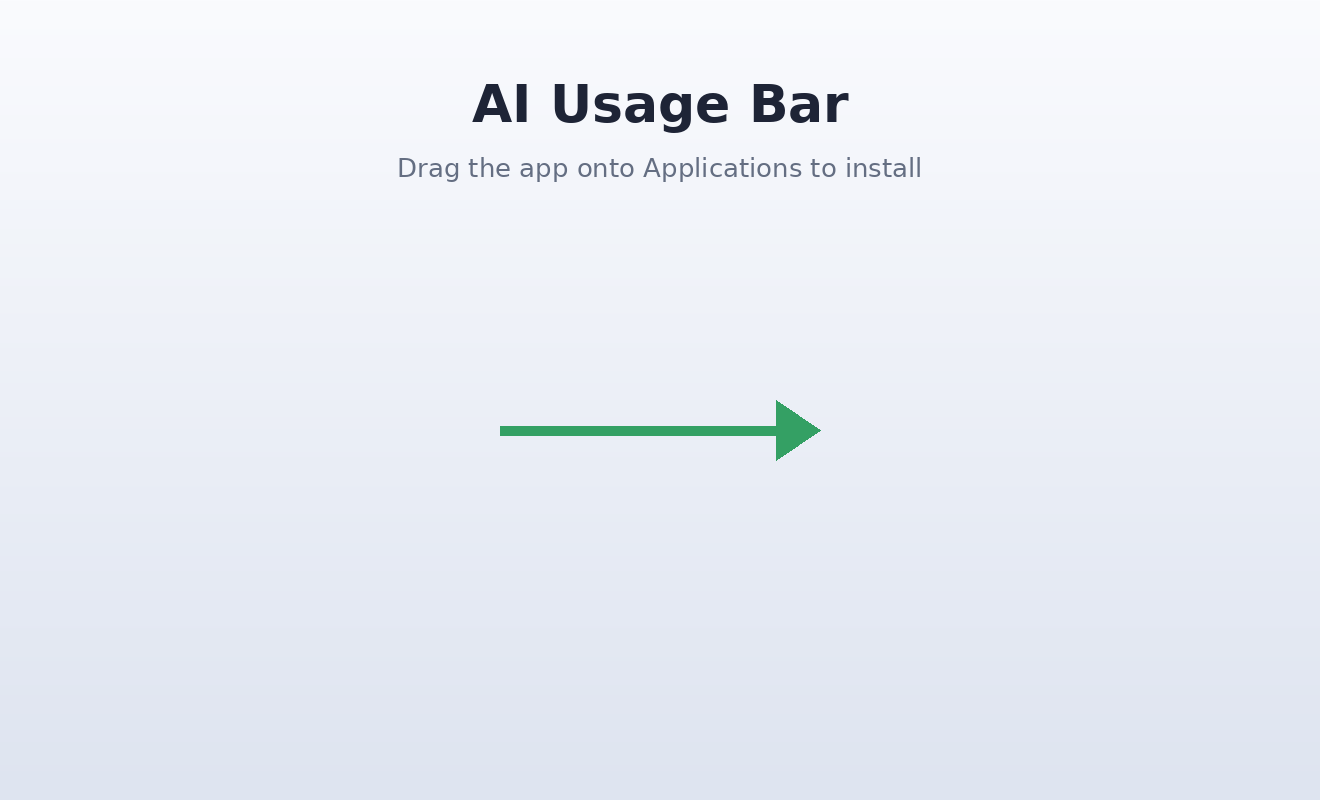
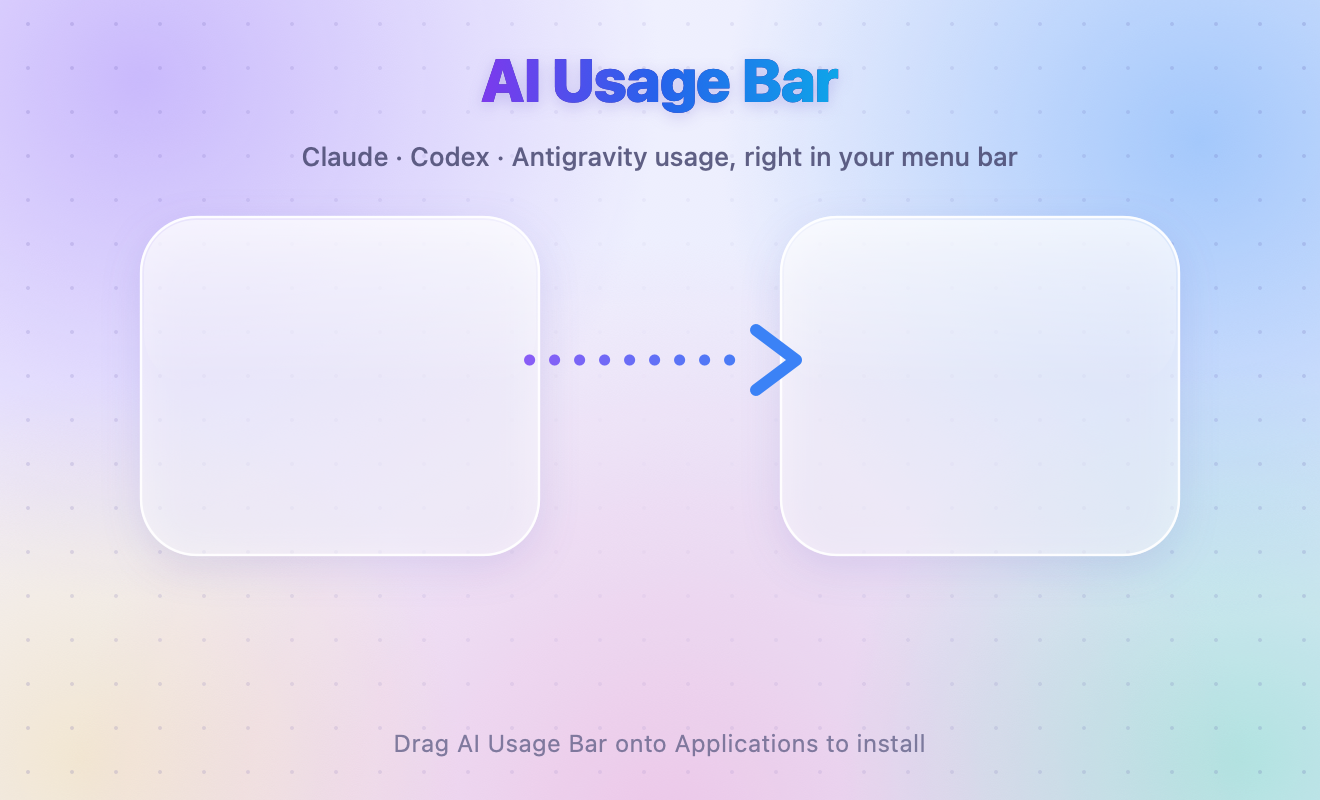
build: richer dmg window design with aurora background and glass pedestals

diff --git a/Scripts/make-dmg-background.swift b/Scripts/make-dmg-background.swift
@@ -1,0 +1,120 @@
+#!/usr/bin/env swift
+// Renders the DMG window background (660x400 pt).
+// Usage: swift Scripts/make-dmg-background.swift <out.png> [scale]
+// Icon slots in make-dmg.sh: app at (170,190), Applications at (490,190), top-left origin.
+import AppKit
+
+let out = CommandLine.arguments.count > 1 ? CommandLine.arguments[1] : "background.png"
+let scale = CommandLine.arguments.count > 2 ? CGFloat(Double(CommandLine.arguments[2]) ?? 1) : 1
+let W: CGFloat = 660, H: CGFloat = 400
+
+let rep = NSBitmapImageRep(bitmapDataPlanes: nil, pixelsWide: Int(W * scale), pixelsHigh: Int(H * scale),
+                           bitsPerSample: 8, samplesPerPixel: 4, hasAlpha: true, isPlanar: false,
+                           colorSpaceName: .deviceRGB, bytesPerRow: 0, bitsPerPixel: 0)!
+rep.size = NSSize(width: W, height: H)
+NSGraphicsContext.saveGraphicsState()
+NSGraphicsContext.current = NSGraphicsContext(bitmapImageRep: rep)
+let ctx = NSGraphicsContext.current!.cgContext
+
+func rgb(_ r: CGFloat, _ g: CGFloat, _ b: CGFloat, _ a: CGFloat = 1) -> NSColor {
+    NSColor(red: r / 255, green: g / 255, blue: b / 255, alpha: a)
+}
+// y helper: convert top-left y to bottom-left.
+func Y(_ top: CGFloat) -> CGFloat { H - top }
+
+// 1. Base: soft diagonal wash.
+NSGradient(colors: [rgb(246, 244, 255), rgb(226, 232, 252)])!
+    .draw(in: NSRect(x: 0, y: 0, width: W, height: H), angle: -35)
+
+// 2. Aurora blobs.
+func blob(_ cx: CGFloat, _ cy: CGFloat, _ r: CGFloat, _ c: NSColor) {
+    NSGradient(colors: [c, c.withAlphaComponent(0)])!
+        .draw(fromCenter: NSPoint(x: cx, y: Y(cy)), radius: 0, toCenter: NSPoint(x: cx, y: Y(cy)), radius: r, options: [])
+}
+blob(70, 40, 260, rgb(167, 139, 250, 0.55))   // violet, top-left
+blob(600, 70, 240, rgb(96, 165, 250, 0.50))   // blue, top-right
+blob(330, 420, 300, rgb(244, 114, 182, 0.30)) // pink, bottom
+blob(620, 380, 200, rgb(52, 211, 153, 0.28))  // mint, bottom-right
+blob(40, 380, 190, rgb(251, 191, 36, 0.20))   // warm, bottom-left
+
+// 3. Fine dot grid, fading toward the centre.
+for gx in stride(from: CGFloat(14), to: W, by: 22) {
+    for gy in stride(from: CGFloat(14), to: H, by: 22) {
+        let d = hypot(gx - W / 2, gy - H / 2) / (W / 2)
+        let a = min(0.22, max(0.0, d * 0.16))
+        rgb(80, 70, 160, a).setFill()
+        NSBezierPath(ovalIn: NSRect(x: gx - 1, y: gy - 1, width: 2, height: 2)).fill()
+    }
+}
+
+// 4. Glass cards behind both icon slots.
+func card(centerX: CGFloat) {
+    let r = NSRect(x: centerX - 100, y: Y(190) - 88, width: 200, height: 170)
+    ctx.saveGState()
+    ctx.setShadow(offset: CGSize(width: 0, height: -6), blur: 22, color: rgb(70, 60, 170, 0.22).cgColor)
+    let p = NSBezierPath(roundedRect: r, xRadius: 28, yRadius: 28)
+    rgb(255, 255, 255, 0.55).setFill(); p.fill()
+    ctx.restoreGState()
+    let p2 = NSBezierPath(roundedRect: r.insetBy(dx: 0.5, dy: 0.5), xRadius: 28, yRadius: 28)
+    p2.lineWidth = 1.2
+    rgb(255, 255, 255, 0.9).setStroke(); p2.stroke()
+    // top sheen
+    NSGradient(colors: [rgb(255, 255, 255, 0.55), rgb(255, 255, 255, 0)])!
+        .draw(in: NSBezierPath(roundedRect: NSRect(x: r.minX + 2, y: r.midY, width: r.width - 4, height: r.height / 2 - 2), xRadius: 26, yRadius: 26), angle: -90)
+}
+card(centerX: 170)
+card(centerX: 490)
+
+// 5. Arrow: dotted shaft in a violet→blue gradient with a rounded chevron head.
+let ay = Y(180)
+ctx.saveGState()
+let shaft = NSBezierPath()
+for i in 0..<9 {
+    let x = 262 + CGFloat(i) * 12.5
+    shaft.append(NSBezierPath(ovalIn: NSRect(x: x, y: ay - 2.8 + 0, width: 5.6, height: 5.6)))
+}
+shaft.setClip()
+NSGradient(colors: [rgb(139, 92, 246), rgb(59, 130, 246)])!
+    .draw(in: NSRect(x: 260, y: ay - 8, width: 130, height: 16), angle: 0)
+ctx.restoreGState()
+let head = NSBezierPath()
+head.lineWidth = 6; head.lineCapStyle = .round; head.lineJoinStyle = .round
+head.move(to: NSPoint(x: 378, y: ay + 15)); head.line(to: NSPoint(x: 398, y: ay)); head.line(to: NSPoint(x: 378, y: ay - 15))
+rgb(59, 130, 246).setStroke(); head.stroke()
+
+// 6. Title (gradient) + tagline + footer.
+func centered(_ s: String, _ font: NSFont, _ color: NSColor, topY: CGFloat, kern: CGFloat = 0) {
+    let p = NSMutableParagraphStyle(); p.alignment = .center
+    (s as NSString).draw(in: NSRect(x: 0, y: Y(topY) - font.pointSize - 6, width: W, height: font.pointSize + 14),
+                         withAttributes: [.font: font, .foregroundColor: color, .paragraphStyle: p, .kern: kern])
+}
+// gradient title via text mask
+let title = "AI Usage Bar" as NSString
+let tfont = NSFont.systemFont(ofSize: 30, weight: .heavy)
+let tattrs: [NSAttributedString.Key: Any] = [.font: tfont, .kern: -0.6]
+let tsize = title.size(withAttributes: tattrs)
+let tx = (W - tsize.width) / 2, ty = Y(30) - tsize.height + 8
+ctx.saveGState()
+ctx.setShadow(offset: CGSize(width: 0, height: -2), blur: 8, color: rgb(90, 70, 200, 0.25).cgColor)
+title.draw(at: NSPoint(x: tx, y: ty), withAttributes: tattrs.merging([.foregroundColor: rgb(60, 40, 160)]) { $1 })
+ctx.restoreGState()
+// overlay gradient clipped to glyphs
+let mask = NSImage(size: NSSize(width: W, height: H), flipped: false) { _ in
+    title.draw(at: NSPoint(x: tx, y: ty), withAttributes: tattrs.merging([.foregroundColor: NSColor.black]) { $1 })
+    return true
+}
+var rect = CGRect(x: 0, y: 0, width: W, height: H)
+if let cg = mask.cgImage(forProposedRect: &rect, context: nil, hints: nil) {
+    ctx.saveGState()
+    ctx.clip(to: rect, mask: cg)
+    NSGradient(colors: [rgb(124, 58, 237), rgb(37, 99, 235), rgb(14, 165, 233)])!
+        .draw(in: NSRect(x: tx, y: ty, width: tsize.width, height: tsize.height), angle: 0)
+    ctx.restoreGState()
+}
+centered("Claude · Codex · Antigravity usage, right in your menu bar",
+         .systemFont(ofSize: 13, weight: .medium), rgb(70, 70, 110, 0.85), topY: 78)
+centered("Drag AI Usage Bar onto Applications to install",
+         .systemFont(ofSize: 12, weight: .regular), rgb(90, 90, 130, 0.75), topY: 372, kern: 0.2)
+
+NSGraphicsContext.restoreGraphicsState()
+try! rep.representation(using: .png, properties: [:])!.write(to: URL(fileURLWithPath: out))
